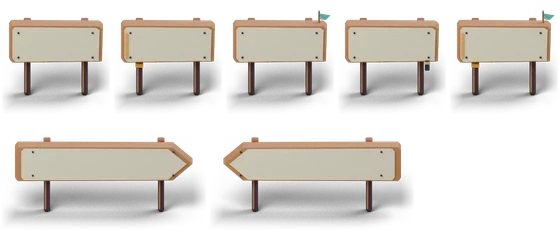
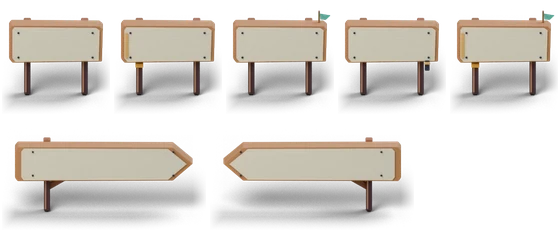
Keep dock signs supported and Feka visible through arrival

diff --git a/tests/world-map-integration.test.ts b/tests/world-map-integration.test.ts
@@ -838,3 +838,36 @@ test('narrow channel travel hides dock signs while drawer, keyboard and skip rem
     assert.equal(h.internal.motionState(), 'idle'); assert.equal(h.internal.hud.dockButtons[1].hidden, false, 'The idle Coast dock action returns.');
     assert.deepEqual({ completed: save.completed, seals: save.seals }, progress, 'Hiding travel labels cannot change unlocks or collectibles.');
 });
+
+test('dock signs stay hidden through disembarkation and the final walk, returning only at confirmed arrival', async t => {
+    const h = mapDOM(t), save = openSave('2-1'), progress = structuredClone({ completed: save.completed, seals: save.seals });
+    await readyConnection(h, save); h.view.render(0, save, 100, '');
+    let time = 100, disembarked = false, finalWalk = false;
+    while (time < 12000) {
+        h.view.render(0, save, time += 50, '');
+        const mode = h.internal.motionState();
+        if (mode === 'arriving') disembarked = true;
+        if (h.internal.journey.destination)
+            assert.ok(h.internal.hud.dockButtons.every((button: Button) => button.hidden), 'No dock label may cover Feka during any part of a trip.');
+        if (disembarked && mode === 'walking') {
+            finalWalk = true;
+            assert.ok(h.internal.hud.stageButtons.some((button: Button) => !button.hidden), 'Phase navigation returns normally on land.');
+            assert.equal(h.internal.hud.skipButton.hidden, false);
+            assert.equal(h.internal.journey.arrived, '2-1'); assert.deepEqual(h.events.arrived, []);
+            break;
+        }
+    }
+    assert.ok(disembarked && finalWalk, 'Exercise the actual boarding-edge-to-land transition that exposed the sign.');
+    const feet = { ...h.internal.marker };
+    h.root.dispatch('keydown', { key: 'ArrowRight' });
+    assert.equal(h.internal.journey.selected, '1-2'); assert.deepEqual(h.internal.marker, feet);
+    assert.equal(h.view.enterSelected(1), false); assert.deepEqual(h.events.arrived, []);
+    while (h.internal.journey.destination && time < 16000) {
+        h.view.render(1, save, time += 50, '');
+        if (h.internal.journey.destination) assert.ok(h.internal.hud.dockButtons.every((button: Button) => button.hidden));
+    }
+    assert.equal(h.internal.journey.arrived, '1-2'); assert.equal(h.internal.motionState(), 'idle');
+    assert.deepEqual(h.events.arrived, [1]); assert.equal(h.events.entered, 0);
+    assert.equal(h.internal.hud.dockButtons[1].hidden, false, 'The normal Porto action returns only after Feka reaches the selected phase.');
+    assert.deepEqual({ completed: save.completed, seals: save.seals }, progress);
+});

diff --git a/tests/world-map-sign-art.test.ts b/tests/world-map-sign-art.test.ts
@@ -66,7 +66,9 @@ test('physical dock arrows retain names and attached gate marker without a float
         assert.equal(painted.canvas.style.transform, 'translate(0px, 10px)');
         const draw = painted.calls.find(call => call.method === 'drawImage')!;
         assert.equal(draw.args[1], world === 1 ? 208 : 0);
-        assert.ok(painted.calls.some(call => call.method === 'fillRect' && call.color === ART.gold && call.args.join(',') === '79,35,4,1'));
+        // Authored support centers: COSTA x80.51, PORTO x23.49 CSSpx.
+        const bandX = world === 1 ? 79 : 22;
+        assert.ok(painted.calls.some(call => call.method === 'fillRect' && call.color === ART.gold && call.args.join(',') === `${bandX},35,4,1`));
     }
     const fallback = canvas();
     assert.equal(paintPhysicalStageSign(fallback.canvas, null, '1-1', true, false, true), false);

diff --git a/src/adventure/WorldMapSignArt.ts b/src/adventure/WorldMapSignArt.ts
@@ -103,9 +103,10 @@ export function paintPhysicalDockSign(canvas: HTMLCanvasElement, atlas: MapSignA
     const ctx = paint(canvas, atlas, world === 1 ? 'dock-left' : 'dock-right', world === 1 ? 'COSTA' : 'PORTO');
     if (!ctx) return false;
     if (!available) {
-        // A brass band belongs to the right post, never a floating lock icon.
-        ctx.fillStyle = ART.ink; ctx.fillRect(80, 33, 2, 5);
-        ctx.fillStyle = ART.gold; ctx.fillRect(79, 35, 4, 1);
+        // The cantilevered boards keep their support on the pier side.
+        const postX = world === 1 ? 80 : 23;
+        ctx.fillStyle = ART.ink; ctx.fillRect(postX, 33, 2, 5);
+        ctx.fillStyle = ART.gold; ctx.fillRect(postX - 1, 35, 4, 1);
     }
     return true;
 }

diff --git a/src/adventure/WorldMapView.ts b/src/adventure/WorldMapView.ts
@@ -485,7 +485,7 @@ export class WorldMapView {
             return { x: screen.x + 36, y: screen.y };
         });
         const docks = ([1, 2] as const).map(destination => {
-            if (hide || world > 2 || !this.connectionActive || !this.connection) return null;
+            if (hide || this.journey?.destination || world > 2 || !this.connectionActive || !this.connection) return null;
             // Buttons name their destination, so each sign stands at the opposite departure dock.
             const departure = destination === 1 ? 2 : 1;
             const point = mapToScreen(localToAtlas(this.connection.docks[departure].dock, placementFor(departure)), this.camera);

diff --git a/tools/diorama/render_map_signs.py b/tools/diorama/render_map_signs.py
@@ -61,10 +61,16 @@ for kind in kinds:
     # Painted face is inset from a visible, beveled solid wood edge.
     inset=[(x*.93,-.109,.91+(z-.91)*.91) for x,z in outline]
     mesh('thin warm ivory painted face',inset,[tuple(range(n-1,-1,-1))],face)
-    for x in ([-.91,.91] if dock else [-.44,.44]):
+    support_x = [.91] if kind=='dock-left' else [-.91] if kind=='dock-right' else [-.44,.44]
+    for x in support_x:
         cube('square timber support post',(x,.065,.36),(.095,.125,.72),post,.017)
         cube('sunlit post grain',(x-.022,-.001,.32),(.022,.011,.56),timber,.004)
         cube('rear strengthening cleat',(x,.145,.90),(.11,.11,.65),edge,.017)
+    # Dock signs cantilever from the pier-side post; the short rear bracket
+    # stays below the name and leaves all canvas/camera/anchor geometry fixed.
+    if dock:
+        x=support_x[0]; inward=-1 if x>0 else 1
+        a=Vector((x,.13,.37));b=Vector((x+inward*.46,.13,.66));o=cube('small cantilever knee brace',(a+b)/2,(.075,.10,(b-a).length),edge,.012);o.rotation_euler=(b-a).to_track_quat('Z','Y').to_euler()
     # Four modest forged fixings, not an outline around the whole sign.
     for x in [-half*.80,half*.78]:
         for z in [.70,1.12]:

diff --git a/docs/world/diorama/map-signs.md b/docs/world/diorama/map-signs.md
@@ -24,7 +24,7 @@ The scripts create no JPEG preview, node subprocess, or .blend cache. Seven
 individual DPR2 WebPs are also emitted as optional alternatives; the shared
 atlas is the normal runtime deliverable.
 
-The accepted atlas is 560 × 232 pixels and 30,000 bytes. Its seven frames
+The accepted atlas is 560 × 232 pixels and 29,396 bytes. Its seven frames
 preserve full-contrast original bitmap IDs and combine selection/completion
 without hiding either state. The native phase and dock targets remain
 56 × 58 and 104 × 56 CSS pixels. Only decoration moves to align the measured
@@ -34,3 +34,9 @@ Repacking the original PNGs reproduced the atlas and manifest byte-for-byte.
 A fresh Blender render through the portable source also reproduced the stage
 pixels and measured metadata. Alpha checks cover the outer two pixels of every
 packed frame, including the completion pennant and contact shadow.
+
+Dock boards have one pier-side support and a short timber cantilever bracket.
+The COSTA board retains its right post; PORTO retains its left post. This keeps
+the support on the landing when a narrow layout shifts the label toward free
+water. The closed-dock marker follows that remaining post. Frame dimensions,
+reference points, faces and the five phase-state sources remain unchanged.
